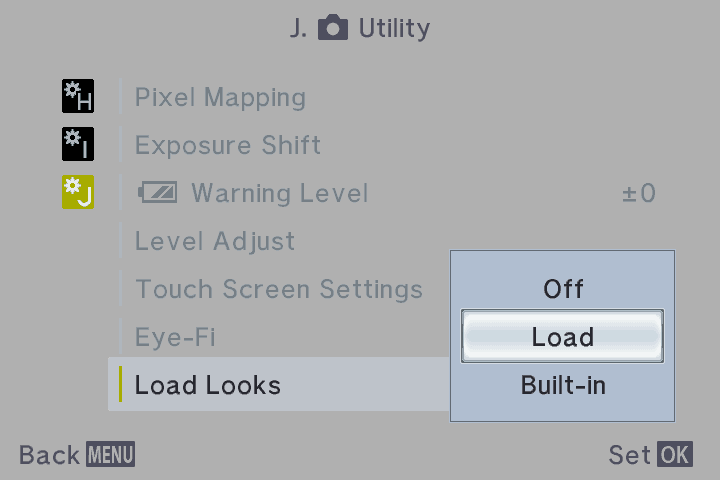
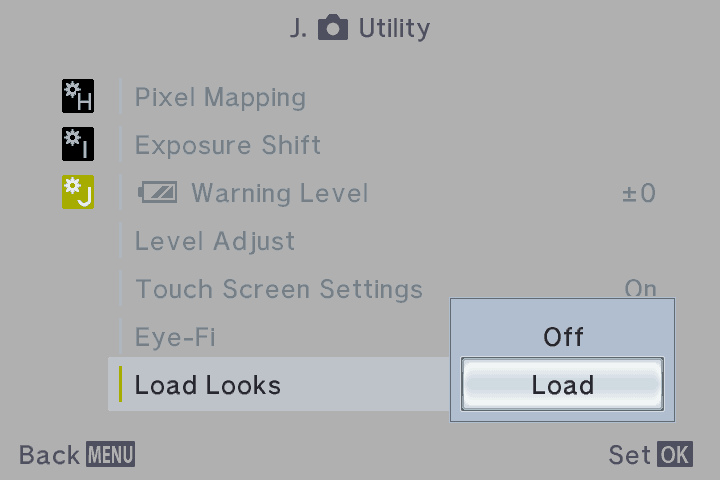
feat: pin stock-films; the installer writes the 12 films to every EPM2Mod card
Camera-tested 2026-11-18 in two runs: Olympus's filters before a Load, the 12 films after it in
stills, live view, a movie and ART BKT. The installer always writes EPM2LOOK.BIN for EPM2Mod and
always shows the Load Looks step; guides, README and the site describe Olympus's filters by default
and drop Built-in. The README generator counts stock-films as a twelve-film build. test_looks checks
the sha guard on log-menu, the last build with films in the firmware.

Changed region(s): [[0.6111, 0.5, 0.9472, 0.875]]

diff --git a/web/apps/local/src/App.test.tsx b/web/apps/local/src/App.test.tsx
@@ -1,9 +1,11 @@
 import { render, screen, waitFor } from '@testing-library/react'
 import userEvent from '@testing-library/user-event'
+import { builtInSlots, choicesOf } from '@epm2mod/ui'
 import App from './App'
 import type { Job } from './api'
 
 const BUILD = { name: 'card-looks-4', what: 'Film simulations', sha256: 'ab'.repeat(32) }
+const DEFAULT = choicesOf(builtInSlots())
 const CARD = {
   path: '/media/u/CARD',
   name: 'CARD',
@@ -78,14 +80,14 @@ describe('the local app', () => {
     expect(screen.getByRole('heading', { name: 'Film simulations' })).toBeInTheDocument()
     expect(screen.getByText(/derived from/)).toBeInTheDocument()
     await user.click(screen.getByRole('button', { name: 'Use the default film simulations' }))
-    expect(made).toEqual([{ firmware: 'epm2mod', choices: [], card: CARD.path }])
+    expect(made).toEqual([{ firmware: 'epm2mod', choices: DEFAULT, card: CARD.path }])
     expect(await screen.findByRole('heading', { name: 'Install on the camera' })).toBeInTheDocument()
     const steps = screen.getByRole('list', { name: 'Install steps' })
     expect(steps).toHaveTextContent(
       'Hold OK (middle of the arrow pad) and ON/OFF together until the orange lamp on the front stays lit, then let go.',
     )
+    expect(steps).toHaveTextContent('MENU → SETUP → gears tab → J → Load Looks → Load → OK.')
     expect(steps).toHaveTextContent('Check: MENU → ART shows film names, such as Portra 400.')
-    expect(steps).not.toHaveTextContent('Load Looks')
     expect(steps).not.toHaveTextContent('zip')
     expect(screen.queryByText(/derived from/)).toBeNull()
     await user.click(screen.getByRole('button', { name: 'Finish' }))
@@ -114,7 +116,7 @@ describe('the local app', () => {
     })
   })
 
-  it('writes no look file when the customized films are left as they are', async () => {
+  it('writes the default films when the customized films are left as they are', async () => {
     const made = server()
     const user = userEvent.setup()
     render(<App />)
@@ -125,7 +127,7 @@ describe('the local app', () => {
     expect(screen.getByText('The menu is full. Remove a film simulation (×) to add one.')).toBeInTheDocument()
     await user.click(screen.getByRole('button', { name: 'Write to the card' }))
     await waitFor(() => {
-      expect(made).toEqual([{ firmware: 'epm2mod', choices: [], card: CARD.path }])
+      expect(made).toEqual([{ firmware: 'epm2mod', choices: DEFAULT, card: CARD.path }])
     })
   })
 

diff --git a/web/apps/local/src/App.tsx b/web/apps/local/src/App.tsx
@@ -36,13 +36,13 @@ const ZIP_NAME = 'EPM2Mod-card.zip'
 function changedSlot(items: readonly SlotItem[]): string {
   const index = items.findIndex((item, i) => item.filmId !== null && item.filmId !== slots[i]?.builtIn)
   const id = items[index]?.filmId
-  return id ? `${filmById(id).name} in ART ${String(index + 1)}.` : 'your films.'
+  return id ? `${filmById(id).name} in ART ${String(index + 1)}.` : 'film names, such as Portra 400.'
 }
 const HELP = 'https://github.com/cfu288/EPM2Mod/blob/main/docs/install.md'
 
 /** A card in the list: its name, size and where it is mounted. */
 const cardLabel = (c: Card) => `${c.name || 'SD card'} · ${String(Math.round(c.size / 1e9))} GB · ${c.path}`
-const DEFAULT_CHOICES = choicesOf(builtInSlots()).join()
+const DEFAULT_CHOICES = choicesOf(builtInSlots())
 
 /** What the user sees while the job runs, and the step of the job (`steps` of `epm2mod serve`) that ends each one. */
 function stages(job: Job | null, firmware: Firmware) {
@@ -538,9 +538,8 @@ export default function App() {
   const startBuild = (custom: boolean) => {
     setProblem(null)
     setLastCustom(custom)
-    const choices = choicesOf(looks.items)
-    // films left as they are need no look file: the firmware has them built in
-    const wanted = firmware === 'epm2mod' && custom && choices.join() !== DEFAULT_CHOICES ? choices : []
+    // the firmware has Olympus's art filters: every EPM2Mod install gets a look file, loaded with Load Looks
+    const wanted = firmware === 'epm2mod' ? (custom ? choicesOf(looks.items) : DEFAULT_CHOICES) : []
     setJob(null)
     setStep('build')
     api.make(firmware, wanted, zip ? null : card).then(

diff --git a/web/apps/site/src/features.ts b/web/apps/site/src/features.ts
@@ -15,7 +15,11 @@ export const features: Feature[] = [
     id: 'film-looks',
     name: 'Film simulations',
     summary: 'Film colours straight out of the camera.',
-    steps: ['Set the mode dial to P, A, S or M.', 'Press OK, select Picture Mode, and scroll right past Custom.'],
+    steps: [
+      'Install EPM2Mod with the installer. It puts the film simulations on the SD card.',
+      'MENU → Custom Menu → J → Load Looks → Load. Until then the camera has the Olympus art filters.',
+      'Press OK, select Picture Mode, and scroll right past Custom.',
+    ],
     screens: [{ src: 'ui/quick-menu-portra.png', alt: 'The quick menu with Picture Mode on Portra 400' }],
   },
   {
@@ -25,7 +29,7 @@ export const features: Feature[] = [
     steps: [
       'Choose film simulations in the installer and write them to the SD card.',
       'MENU → Custom Menu → J → Load Looks → Load.',
-      'To undo, select Built-in instead of Load.',
+      'An art filter that the file leaves out goes back to the Olympus filter.',
     ],
     screens: [
       { src: 'ui/load-looks-loaded.png', alt: 'Load Looks reads Loaded' },

diff --git a/web/apps/local/e2e/install.spec.ts b/web/apps/local/e2e/install.spec.ts
@@ -64,7 +64,8 @@ test('writes EPM2Mod with the default films to the card and shows the progress',
       .filter({ hasText: "Download Olympus's firmware" }),
   ).toContainText('✓')
   await expect(page.getByRole('heading', { name: 'Install on the camera' })).toBeVisible()
-  expect(made).toEqual([{ firmware: 'epm2mod', choices: [], card: CARD.path }])
+  expect(made[0]?.choices).toHaveLength(12)
+  await expect(page.getByRole('list', { name: 'Install steps' })).toContainText('Load Looks → Load → OK.')
 })
 
 test('customizes the films and downloads the zip', async ({ page }) => {

diff --git a/src/epm2mod/readme.py b/src/epm2mod/readme.py
@@ -93,8 +93,9 @@ _STOCK_ORDER = (
     "Key Line",
     "Watercolor",
 )
-#: The spec that names the first Portra entry "Portra 400" (the twelve-film builds).
-_TWELVE_NAMES = "patches/films12bw-names.json"
+#: Specs of the twelve-film builds: the one that names the first Portra entry "Portra 400", and the loader of
+#: the build with Olympus's filters, whose default look file holds the same twelve films.
+_TWELVE_SPECS = ("patches/films12bw-names.json", "patches/card-looks-5.json")
 
 
 def pinned_films(paths: RepoPaths) -> list[tuple[str, Film]]:
@@ -107,7 +108,7 @@ def pinned_films(paths: RepoPaths) -> list[tuple[str, Film]]:
     that ``moved_to`` had is not in the build.
     """
     seven = load_films(paths).films
-    if _TWELVE_NAMES not in pinned_description(paths).specs:
+    if not set(_TWELVE_SPECS) & set(pinned_description(paths).specs):
         return [(film.label, film) for film in seven]
     more = {film.entry: film for film in load_more_films(paths).films}
     black_and_white = load_bw_films(paths)

diff --git a/tests/test_looks.py b/tests/test_looks.py
@@ -521,10 +521,11 @@ class RealFirmwareLooksTests(unittest.TestCase):
         self.assertEqual(labels["status"], committed["status"])
         self.assertEqual(generate.stale(paths), [])
 
-        pinned = builds.pinned_description(paths)
-        specs = pipeline.load_specs(paths, pinned)
+        # log-menu: the last tested build with the films in the firmware (the pinned one loads them from the card)
+        tested = builds.load_description(builds.description_path(paths, "log-menu"))
+        specs = pipeline.load_specs(paths, tested)
         with self.assertRaises(BuildError):  # the recorded sha256 no longer fits
-            pipeline.build_image(pinned, specs, stock.read_stock(paths))
+            pipeline.build_image(tested, specs, stock.read_stock(paths))
 
 
 if __name__ == "__main__":

diff --git a/docs/camera-log.md b/docs/camera-log.md
@@ -6,7 +6,7 @@ Body: Olympus PEN E-PM2. It was on body 1.6 and lens 1.1 before the first flash.
 
 | Date (UTC) | Build | sha256 | Result |
 |---|---|---|---|
[5 lines of base64/hex data omitted]

diff --git a/builds/README.md b/builds/README.md
@@ -18,11 +18,12 @@ All firmware that goes on a camera is made this way. The procedure for a new bui
 <!-- BEGIN GENERATED: builds -->
 | Build | What | Patch specs | Camera-tested | sha256 |
 |---|---|---|---|---|
[10 lines of base64/hex data omitted]

diff --git a/docs/guide/card-looks.md b/docs/guide/card-looks.md
@@ -1,12 +1,12 @@
 # Looks from the SD Card
 
-Choose which film is in each of the twelve ART entries, with a file on the SD card. The camera keeps them,
-with their names, after power-off and without the card.
+The camera comes with the Olympus art filters. A file on the SD card puts a film in each ART entry it lists. The
+camera keeps them, with their names, after power-off and without the card.
 
 ## Make a file
 
-On the web, [the film looks page](https://cfu288.github.io/EPM2Mod/) makes the file. The installer makes it when you
-select Customize. On the command line, change any film in this command (`uv run epm2mod looks list` shows all 19, and
+On the web, [the film looks page](https://cfu288.github.io/EPM2Mod/) makes the file. The installer always writes it,
+with the 12 default films or your choice. On the command line, change any film in this command (`uv run epm2mod looks list` shows all 19, and
 `uv run epm2mod cards` shows the card's folder):
 
 ```sh
@@ -19,15 +19,15 @@ It writes `EPM2LOOK.BIN` to the top folder of the card. Without the card, use `-
 
 MENU → Custom Menu → J → **Load Looks** → **Load** → OK. The row reads Loading, then **Loaded** at the next key.
 
-<img src="../images/ui/load-looks-list.png" width="320" alt="Load Looks with Off, Load and Built-in">
+<img src="../images/ui/load-looks-list.png" width="320" alt="Load Looks with Off and Load">
 <img src="../images/ui/load-looks-loaded.png" width="320" alt="Load Looks reads Loaded">
 
 The entry shows the look's name everywhere the camera shows a film name.
 
 <img src="../images/ui/picture-mode-loaded.png" width="320" alt="The Picture Mode strip with Portra 800">
 
-You can delete the file. **Built-in** in the same row brings back the built-in looks. **No file** or **Bad file**
-means nothing changed. No Custom Menu tab (gears icon): enable it in **Setup Menu → Menu Display**.
+Each Load replaces the last one: an entry the file leaves out goes back to its Olympus art filter. You can delete
+the file. **No file** or **Bad file** means nothing changed. No Custom Menu tab (gears icon): enable it in **Setup Menu → Menu Display**.
 
 ## Limits
 

diff --git a/docs/feasibility.md b/docs/feasibility.md
@@ -59,7 +59,8 @@ routines. This file records what the measurements show, so that nobody repeats t
 | A dormant setting as an own menu row, kept after power-off | Setting 447 with the stock Off / On panel 608 (Custom Menu J, Debug Log); the firmware never writes it at start | Camera-tested 2026-11-18 (`log-menu`: On kept after power-off and after a flash) |
 | RAM kept across power-off | The log's ring RAM 0x7E4F9000 keeps its content; bits can turn from 0 to 1 while the camera is off (seen twice, both before a start from USB) | Camera-tested 2026-11-18; the ring has a check word since `log-menu` |
 | Settings memory for own data | The EEROM settings bank's unused tail, 53,680 bytes, saved by the firmware and by the bank save API 0x7E680272 | Camera-tested 2026-11-17 (looks kept after power-off without the card) |
-| Hidden art-filter numbers | 110 to 118 exist in the pipeline switches, with no menu value | Verified in code; untested on the camera |
+| Hidden art-filter numbers | 110 to 118 exist in the pipeline switches, with no menu value | Camera-tested 2026-11-18 (`stock-films`: 111, 112, 114, 115, 118 carry films in stills, live view, movie and ART BKT) |
+| Art filters switched at run time | Olympus's 12 filters stay in flash; a Load writes each entry's routing words and its RAM tables (0x7E4D1000, 0x3200 per entry); 30 hooks make ART BKT follow | Camera-tested 2026-11-18 (`stock-films`). For about 0.5 s at power-on, before the loader runs, the selected entry uses its Olympus code (code 88 seen once) |
 | Add Effects (Soft Focus, Pin-Hole, White Edge, Frame, Star Light) | Per-filter data lists at 0x7E849E2B to 0x7E849E5A | Verified; on a film slot untested |
 
 ## What is feasible

diff --git a/docs/install.md b/docs/install.md
@@ -1,12 +1,12 @@
 # Install
 
 <!-- BEGIN GENERATED: pinned-build -->
-The pinned build is **`log-menu`**: film simulations in the twelve art filter entries, each of which takes any look; film looks loaded from the SD card with the menu row Load Looks in Custom Menu J, shown under their own names and kept in the camera; interval shooting with up to 240 frames, a level gauge with calibration, and focus peaking; a Debug Log row in Custom Menu J (Off by default) that writes EPM2LOG.BIN to the card for bug reports. We tested this build on a real E-PM2 on 2026-11-18 ([camera log](camera-log.md)).
+The pinned build is **`stock-films`**: the twelve Olympus art filters unchanged; film looks loaded from the SD card with Custom Menu J, Load Looks, overwrite the entries the file lists; interval shooting with up to 240 frames, a level gauge with calibration, and focus peaking; a Debug Log row in Custom Menu J (Off by default) that writes EPM2LOG.BIN to the card for bug reports. We tested this build on a real E-PM2 on 2026-11-18 ([camera log](camera-log.md)).
 
 | | sha256 |
 |---|---|
[3 lines of base64/hex data omitted]
 <!-- END GENERATED: pinned-build -->
 
 The install steps are in the [README](../README.md#install).

diff --git a/README.md b/README.md
@@ -43,7 +43,7 @@ Download the zip from [Releases](https://github.com/cfu288/EPM2Mod/releases), un
    uv run epm2mod make --card /path/to/card
    ```
 
-   Or build and install the firmware with its 12 film simulations to the SD card, as the installer does. Change any film simulation name to choose another (`uv run epm2mod looks list` shows all 19):
+   The firmware has the Olympus art filters. To add the 12 film simulations, also write the look file, as the installer does. Change any film simulation name to choose another (`uv run epm2mod looks list` shows all 19):
 
    ```sh
    uv run epm2mod make --card /path/to/card
@@ -53,7 +53,7 @@ Download the zip from [Releases](https://github.com/cfu288/EPM2Mod/releases), un
 3. Put the card in the camera. With the camera off, hold **OK** and the **ON/OFF** button together. When the orange lamp on the front of the camera (the AF illuminator) lights steadily, let go of both.
    - While the lamp is steady, the camera is writing the firmware. This takes 1 to 2 minutes. Do not switch the camera off.
    - When the lamp blinks, the update is done. Switch the camera off and on again.
-4. If you used `looks pack`: MENU → Custom Menu → J → **Load Looks** → **Load** → OK ([more](docs/guide/card-looks.md)).
+4. To load the film simulations: MENU → Custom Menu → J → **Load Looks** → **Load** → OK ([more](docs/guide/card-looks.md)).
 
 To go back to the original firmware, see [docs/install.md](docs/install.md).
 
